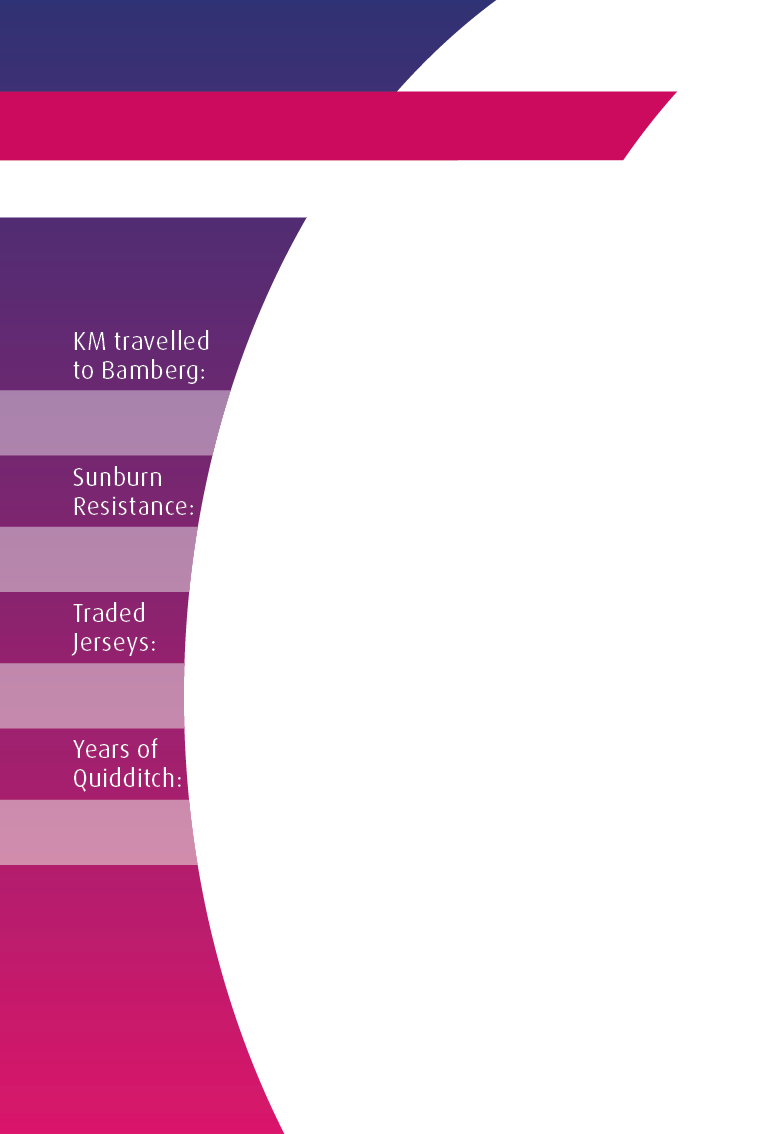
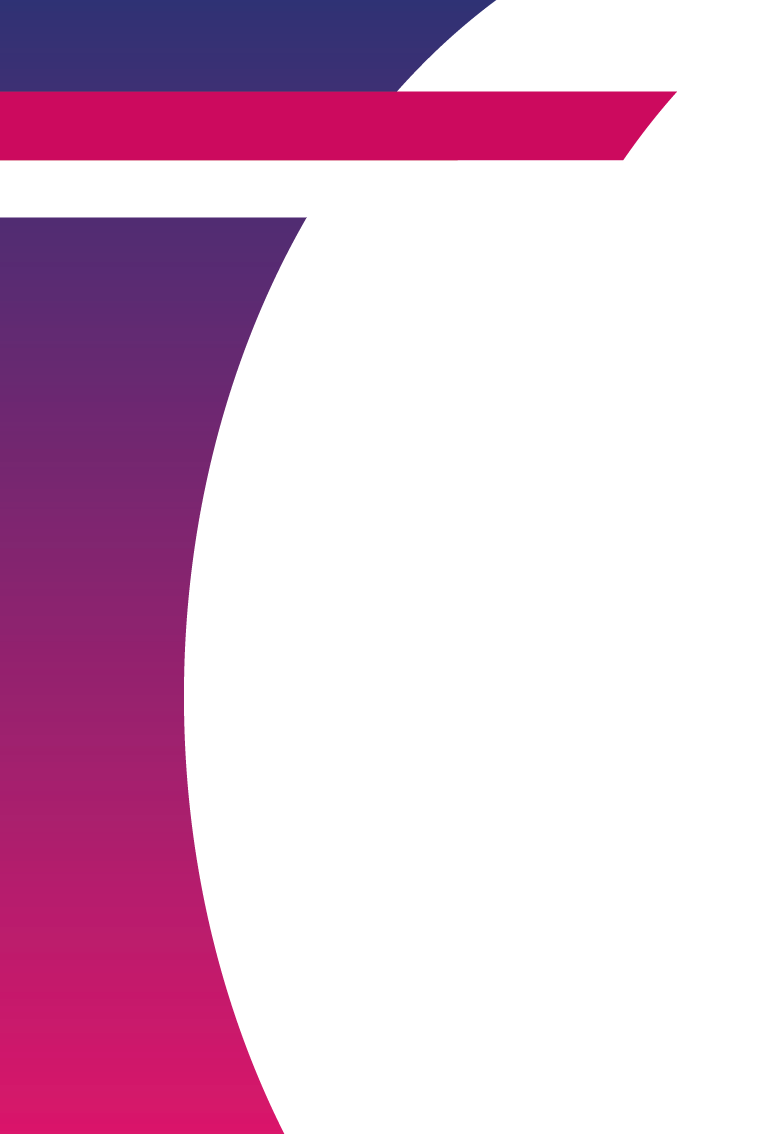
Rare cards without cats

Changed region(s): [[0.0, 0.2778, 0.3077, 0.7716]]

diff --git a/trading_cards/static/cardform.js b/trading_cards/static/cardform.js
@@ -66,4 +66,34 @@
           });
         }
       });
+      $('#id_cata').removeAttr('required');
+      $('#id_cata').parent().hide()
+      $('#id_catb').removeAttr('required');
+      $('#id_catb').parent().hide()
+      $('#id_catc').removeAttr('required');
+      $('#id_catc').parent().hide()
+      $('#id_catd').removeAttr('required');
+      $('#id_catd').parent().hide()
+      $("#id_team").change(function () {
+        var team = this.value;
+        if(team == '25_Rare') {
+            $('#id_cata').removeAttr('required');
+            $('#id_cata').parent().hide()
+            $('#id_catb').removeAttr('required');
+            $('#id_catb').parent().hide()
+            $('#id_catc').removeAttr('required');
+            $('#id_catc').parent().hide()
+            $('#id_catd').removeAttr('required');
+            $('#id_catd').parent().hide()
+        } else {
+            $('#id_cata').attr('required', '');
+            $('#id_cata').parent().show()
+            $('#id_catb').attr('required', '');
+            $('#id_catb').parent().show()
+            $('#id_catc').attr('required', '');
+            $('#id_catc').parent().show()
+            $('#id_catd').attr('required', '');
+            $('#id_catd').parent().show()
+        }
+      });
     });

diff --git a/trading_cards/forms.py b/trading_cards/forms.py
@@ -102,11 +102,11 @@ class CardForm(Form):
         ],)
     phrase = forms.CharField(widget=forms.Textarea, max_length=100, help_text="Recommend below 56 characters", required=False)
     copy = forms.CharField(label='Copyright', help_text='Give credit, if the photographer wants it.', max_length=50, required=False)
-    position = forms.MultipleChoiceField(choices=POSITION_CHOICES, required=False, help_text='Max. 3 positions, if all choose utility; choose multiple by holding Ctrl./Strg.')
+    position = forms.MultipleChoiceField(choices=POSITION_CHOICES, help_text='Max. 3 positions, if all choose utility; choose multiple by holding Ctrl./Strg.')
     # func = forms.MultipleChoiceField(choices=FUNCTION_CHOICES, required=False,
     #                                      help_text='Max. 3 functions; choose multiple by holding Ctrl./Strg.')
-    cata = forms.IntegerField(label='Kilometers traveled to Bamberg', min_value=0, max_value=9999)
-    catb = forms.IntegerField(label='Sunburn Resistance (0-10)', min_value=-5, max_value=20)
-    catc = forms.IntegerField(label='Traded Jerseys', min_value=0, max_value=999)
-    catd = forms.IntegerField(label='Years of Quidditch', min_value=0, max_value=20)
+    cata = forms.IntegerField(label='Kilometers traveled to Bamberg', min_value=0, max_value=9999, required=False)
+    catb = forms.IntegerField(label='Sunburn Resistance (0-10)', min_value=-5, max_value=20, required=False)
+    catc = forms.IntegerField(label='Traded Jerseys', min_value=0, max_value=999, required=False)
+    catd = forms.IntegerField(label='Years of Quidditch', min_value=0, max_value=20, required=False)
     image = ImageDataField(widget=forms.HiddenInput)

diff --git a/trading_cards/views.py b/trading_cards/views.py
@@ -57,6 +57,12 @@ class DefaultFormsetView(FormView):
         directory = tempfile.mkdtemp(prefix=base64.urlsafe_b64encode(os.urandom(64)).decode().replace('=', ''),
                                      dir=os.path.join(os.path.dirname(os.path.realpath(__file__)), 'output'))
         d = form.cleaned_data
+        if d['team']=="25_Rare":
+            d['cata'] = ""
+            d['catb'] = ""
+            d['catc'] = ""
+            d['catd'] = ""
+
         xelatexCommand = ["xelatex",
                               "-output-directory", directory,
                               "-synctex=1", "-interaction=nonstopmode",
